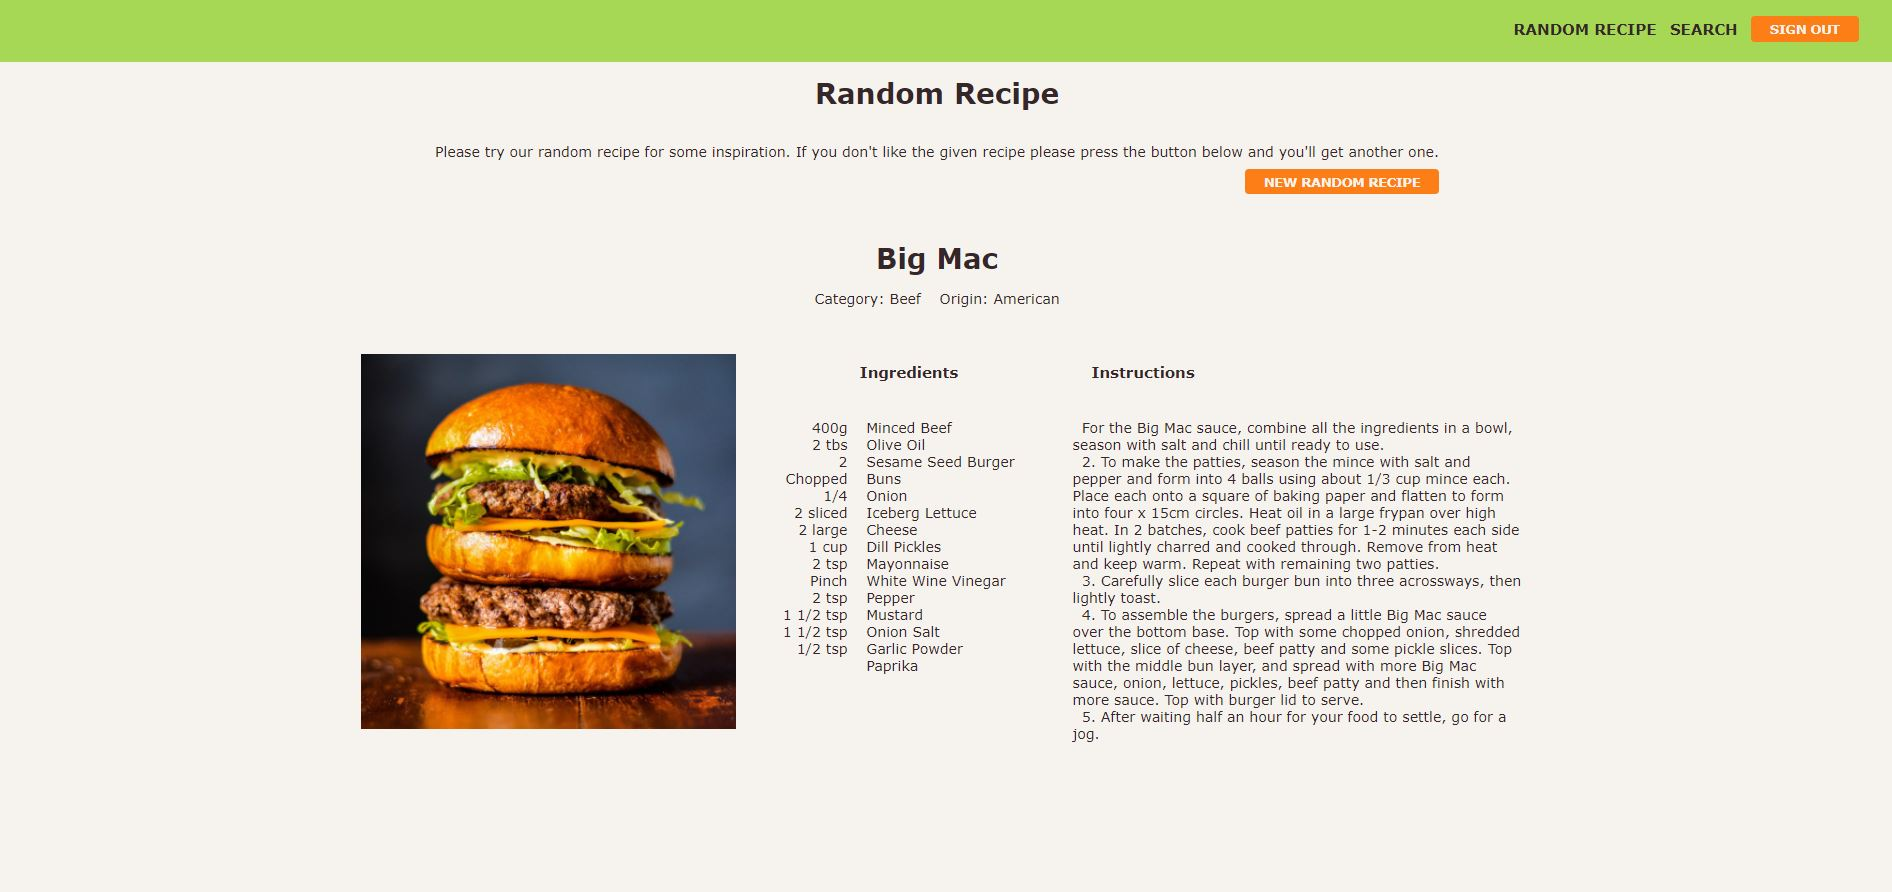
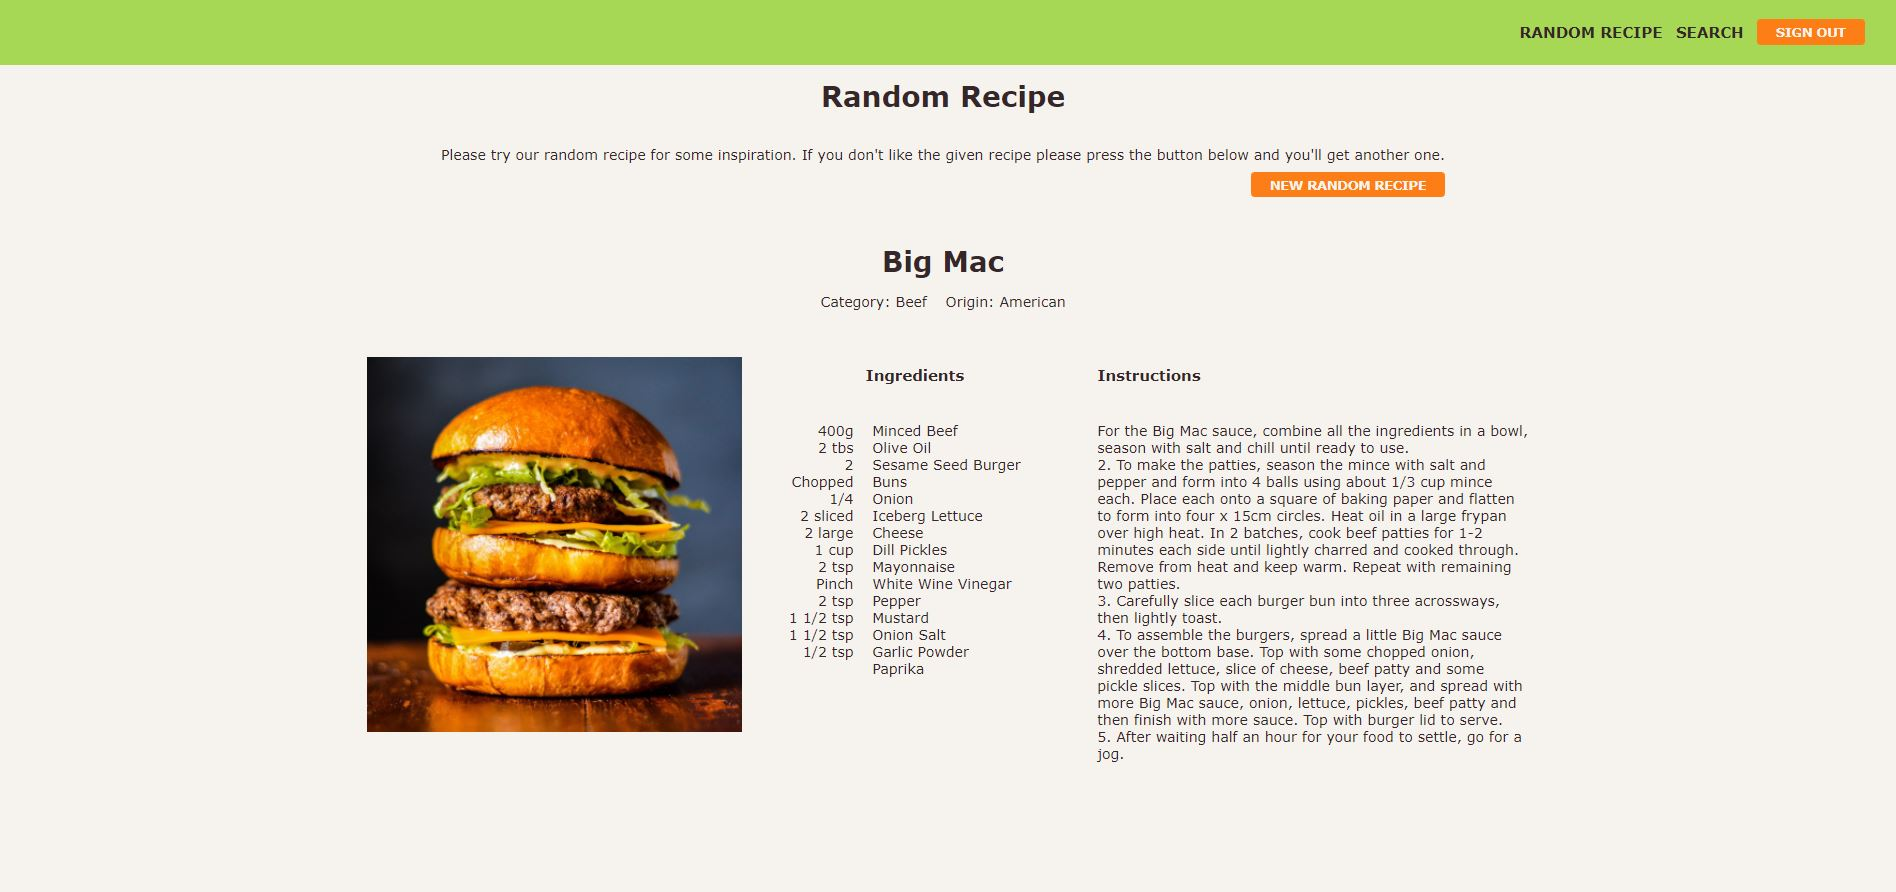
RecipeDetails changed

diff --git a/src/components/recipeDetails/RecipeDetails.js b/src/components/recipeDetails/RecipeDetails.js
@@ -83,11 +83,11 @@ function RecipeDetails({idMeal}) {
 
                     <section className={styles["instruction-title-container"]}>
                         <h4>Instructions</h4>
-                        <p className={styles["instruction-container"]}>{instruction.split("\r\n").map((instruction, index) => {
-                            return <span key={index}>
+                        <p className={styles["instruction-container"]}>{instruction && instruction.split("\r\n").map((instruction, index) => {
+                            return <p key={index}>
                         {instruction}
                                 <br/>
-                    </span>
+                    </p>
                         })}</p>
                     </section>
 

diff --git a/src/components/recipeDetails/RecipeDetails.module.css b/src/components/recipeDetails/RecipeDetails.module.css
@@ -53,6 +53,7 @@ img.resize {
     padding: 10px;
     max-width: 500px;
     text-align: start;
+    margin-left: 20px;
 }
 
 .instruction-title-container {
